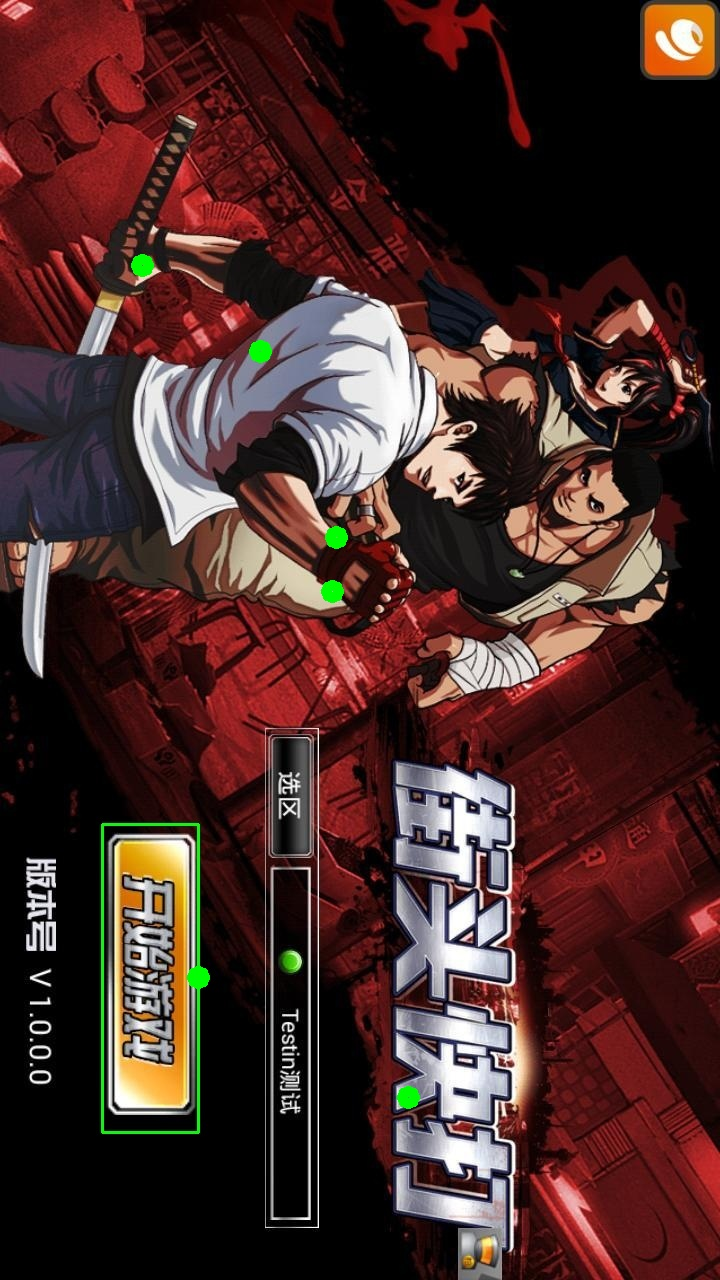
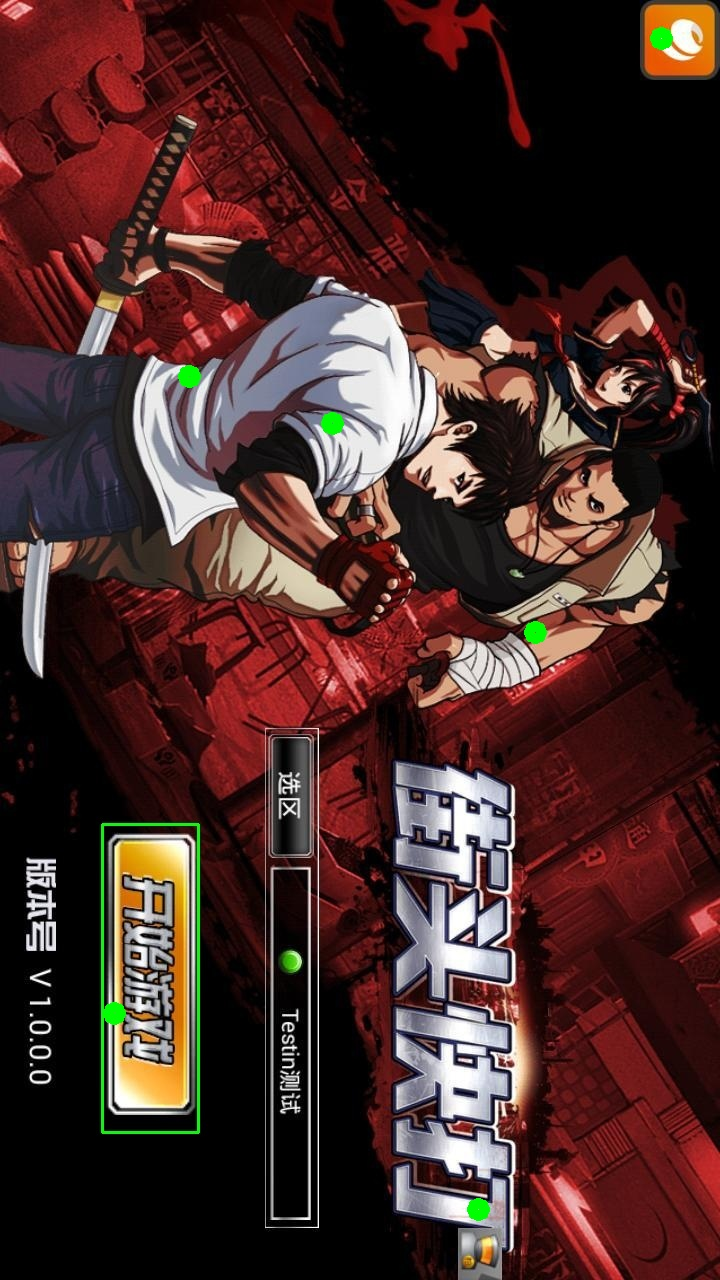
'add'

diff --git a/src/com/monkeyrunner/runSmartmonkey.java b/src/com/monkeyrunner/runSmartmonkey.java
@@ -1,0 +1,83 @@
+package com.monkeyrunner;
+
+import java.io.BufferedReader;
+import java.io.File;
+import java.io.FileReader;
+import java.io.IOException;
+
+import com.android.chimpchat.adb.AdbBackend;
+import com.android.chimpchat.adb.AdbChimpDevice;
+import com.templatematch.MatchInterface;
+import com.templatematch.MatchResult;
+
+public class runSmartmonkey {
+	private static AdbChimpDevice device;
+	private static AdbBackend adb;
+	public static void main(String[] args) {
+		if(args.length == 2){
+			String basePath = args[0];
+			String deviceId = args[1];
+			System.out.println("Run: "+basePath+"/settings.");
+			System.out.println("DeviceId: "+deviceId);
+			run(basePath,deviceId);
+		}else{
+			System.out.println("Need two arguments - basePath  - deviceCode");
+		}
+		
+	}
+	
+	
+	public static void run(String basePath,String deviceId) {
+		String settings = basePath +"settings";
+		System.out.println("start!");
+		if (adb==null){ 
+			adb = new AdbBackend(); 
+		    device = (AdbChimpDevice) adb.waitForConnection(8000,deviceId);
+		} 
+		File file = new File(settings);
+		BufferedReader reader = null;
+		try {
+			reader = new BufferedReader(new FileReader(file));
+			String line = null;
+			while ((line = reader.readLine()) != null) {
+				System.out.println(line);
+				String operate = line.split("\t")[0]; 
+				String targetfile = line.split("\t")[1];
+				String srcfile = "SRC_"+targetfile;
+				int startx = Integer.parseInt(line.split("\t")[2]);
+				int starty = Integer.parseInt(line.split("\t")[3]);
+				int endx = Integer.parseInt(line.split("\t")[4]);
+				int endy = Integer.parseInt(line.split("\t")[5]);
+				int scalex = Integer.parseInt(line.split("\t")[6]);
+				int scaley = Integer.parseInt(line.split("\t")[7]);
+				device.takeSnapshot().writeToFile(basePath+srcfile,"png");
+				MatchInterface tool = new MatchInterface
+						(basePath+srcfile,basePath+targetfile,startx,starty,endx,endy,scalex,scaley);
+				MatchResult result = tool.getMatchResult();
+				System.out.println(result.startx+result.width/2);
+				System.out.println(result.starty+result.height/2);
+				if(operate.equals("click"));{
+					device.touch(result.startx+result.width/2,result.starty+result.height/2,com.android.chimpchat.core.TouchPressType.DOWN_AND_UP);
+					try{
+					    Thread thread = Thread.currentThread();
+					    thread.sleep(2000);
+					}catch (InterruptedException e) {
+					    e.printStackTrace();
+					}
+				}
+			}
+			reader.close();
+		} catch (IOException e) {
+			e.printStackTrace();
+		} finally {
+			if (reader != null) {
+				try {
+					reader.close();
+				} catch (IOException e1) {
+				}
+			}
+		}
+		adb.shutdown();
+		System.out.println("Finished!");
+	}
+}

diff --git a/src/com/monkeyrunner/runScript.java b/src/com/monkeyrunner/runScript.java
@@ -1,0 +1,5 @@
+package com.monkeyrunner;
+
+public class runScript {
+
+}
